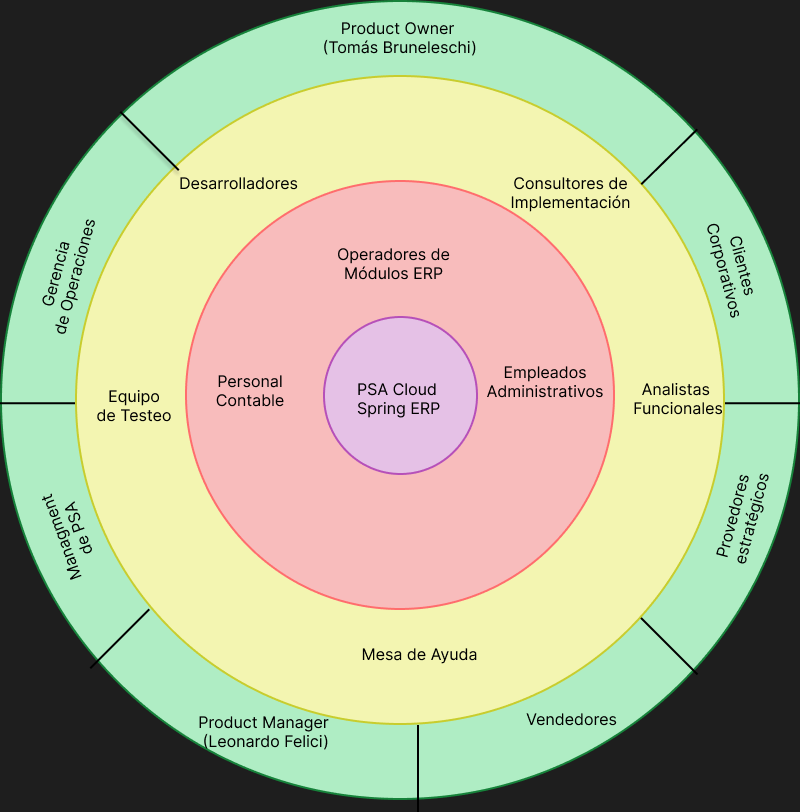
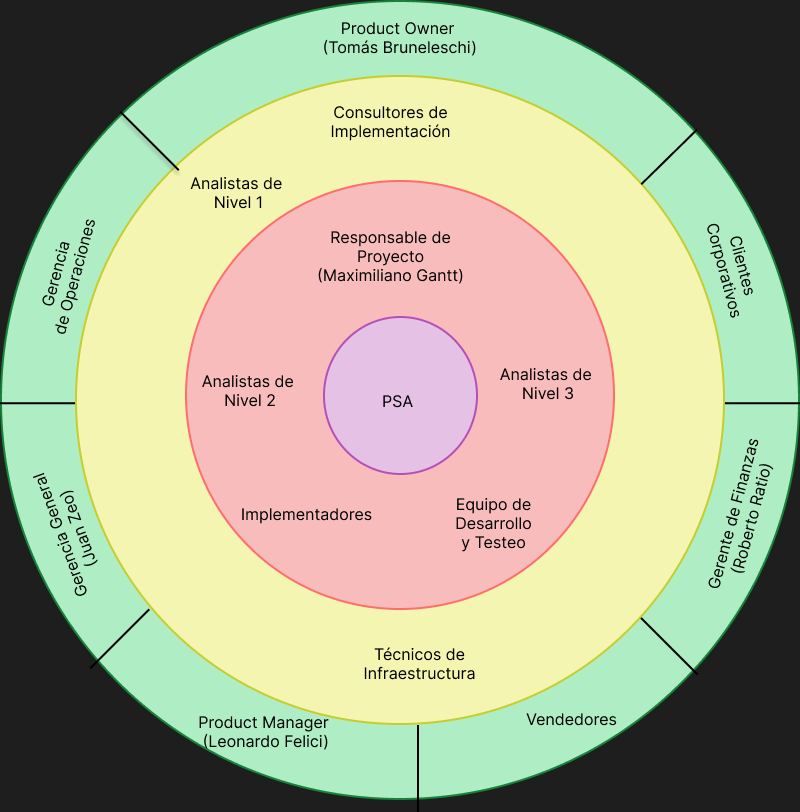
Actualizacion del ModelOnion para PSA. #6

diff --git a/docs/Dominio/onionModel.md b/docs/Dominio/onionModel.md
@@ -8,30 +8,30 @@ Este modelo identifica los stakeholders del sistema PSA Cloud Spring ERP.
 
 ### 🟣 Núcleo – El sistema
 
-- PSA Cloud Spring ERP
+- Sistema de Gestión PSA
 
 ---
 
 ### 🔴 Capa 1 – Usuarios del sistema
 
-Interactúan directamente con el sistema (usan la interfaz para tareas reales):
+Interactúan directamente con el sistema:
 
-- Empleados administrativos
-- Operadores de facturación
-- Personal de compras y contabilidad
+- Analistas de Nivel 2 (Soporte Especializado)
+- Analistas de Nivel 3 (Desarrollo / Funcional)
+- Implementadores
+- Responsable de Proyectos (Maximilian Gantt)
+- Equipo de Desarrollo y testeo
+- Consultores de Implementación
 
 ---
 
 ### 🟡 Capa 2 – Personal de soporte
 
-No son usuarios directos, pero configuran, mantienen o aseguran el funcionamiento del sistema:
+Supervisa y mantienen el sistema
 
-- Desarrolladores
-- Analistas funcionales
-- Testers
+- Analistas de Nivel 1 (Guian al cliente)
+- Consultores de Implementación (cuando parametrizan/configuran)
 - Técnicos de infraestructura
-- Mesa de ayuda
-- Consultores de implementación
 
 ---
 
@@ -42,33 +42,53 @@ No interactúan con el sistema directamente, pero son influenciados por él o lo
 - Product Owner (PO)
 - Program Manager (PM)
 - Gerencia de Operaciones
-- Management de PSA
-- Clientes corporativos
-- Proveedores estratégicos
+- Gerencia General (Juan Zeo)
+- Gerente de Finanzas (Roberto Ratio)
+- Clientes PSA
 - Vendedores
 
 ## ![Onion Model](<R1.2 Onion Model.png>)
 
 [figma.com/R1.2-OnionModel](https://www.figma.com/design/F0SGrgwunPUi7RblxnMZny/R1.2-Onion-Model?node-id=0-1&t=NHcL0pkH9tGpiTU9-1) .
 
-| Rol                               | Descripción                                                                               |
-| --------------------------------- | ----------------------------------------------------------------------------------------- |
-| **PSA Cloud Spring ERP**          | Sistema ERP desarrollado por PSA, actualmente migrado a la nube.                          |
-| **Vendedores**                    | Operan el módulo de ventas del ERP: presupuestos, pedidos, gestión de clientes.           |
-| **Empleados administrativos**     | Usan el ERP para tareas de gestión, carga de datos, emisión de comprobantes y reportes.   |
-| **Operadores de modulos ERP**     | Emiten y registran facturas, gestionan comprobantes y colaboran con contabilidad.         |
-| **Personal Contable**             | Planifican compras, gestionan facturas y realizan conciliación contable dentro del ERP.   |
-| **Consultores de implementación** | Parametrizan el ERP para cada cliente, participan del relevamiento y puesta en marcha.    |
-| **Mesa de ayuda**                 | Brindan soporte de primer nivel a usuarios; registran, escalan y resuelven incidencias.   |
-| **Testers**                       | Ejecutan pruebas funcionales para validar el comportamiento del sistema.                  |
-| **Analistas funcionales**         | Relevan requerimientos, modelan funciones, y validan entregables con usuarios y clientes. |
-| **Desarrolladores**               | Programan funcionalidades, corrigen errores y mantienen el código del ERP.                |
-| **Product Owner (PO)**            | Define el alcance funcional, prioriza tareas y representa la visión del producto.         |
-| **Program Manager (PM)**          | Gestiona proyectos a nivel de tribu, coordina tiempos, equipos y alineación estratégica.  |
-| **Gerencia de Operaciones**       | Supervisa arquitectura, productos y estrategia técnica de PSA.                            |
-| **Management de PSA**             | Nivel directivo encabezado por Juan Zeo; toma decisiones estratégicas.                    |
-| **Clientes corporativos**         | Empresas que adquieren el ERP; participan en definiciones funcionales y validaciones.     |
-| **Proveedores estratégicos**      | Brindan tecnologías o servicios integrados al ERP de PSA.                                 |
+### 🔴 **Capa 1 – Usuarios del sistema**
+
+| Rol                                                | Descripcion                                                                      |
+| -------------------------------------------------- | -------------------------------------------------------------------------------- |
+| **Analistas de Nivel 1 (Soporte / Mesa de Ayuda)** | Registran y clasifican incidentes en el sistema de soporte.                      |
+| **Analistas de Nivel 2 (Soporte Especializado)**   | Resuelven incidentes complejos con conocimiento técnico avanzado.                |
+| **Analistas de Nivel 3 (Desarrollo / Funcional)**  | Desarrolladores o analistas funcionales que intervienen en casos críticos.       |
+| **Implementadores**                                | Registran configuraciones y gestionan proyectos de implementación.               |
+| **Responsables de Proyectos (PM)**                 | Planifican y supervisan tareas, tiempos y riesgos en proyectos.                  |
+| **Equipo de Desarrollo y testeo**                  | Organizan y ejecutan tareas de desarrollo dentro del sistema y corrigen errores. |
+| **Consultores de Implementación (usuarios)**       | Operan el sistema durante la puesta en marcha en clientes.                       |
+
+---
+
+### 🟡 **Capa 2 – Personal de soporte**
+
+| Rol                                               | Descripcion                                                      |
+| ------------------------------------------------- | ---------------------------------------------------------------- |
+| **Consultores de Implementación (configuración)** | Parametrizan y adaptan el sistema a las necesidades del cliente. |
+| **Supervisores de Soporte**                       | Controlan calidad del servicio y tiempos de atención.            |
+| **Mesa de Ayuda (Soporte interno)**               | Brindan soporte técnico a usuarios internos del sistema.         |
+| **Técnicos de Infraestructura**                   | Mantienen la plataforma tecnológica que soporta el sistema.      |
+
+---
+
+### 🟢 **Capa 3 – Stakeholders indirectos**
+
+| Rol                                  | Descripcion                                                          |
+| ------------------------------------ | -------------------------------------------------------------------- |
+| **Product Owner (PO)**               | Define alcance funcional y prioriza el desarrollo del sistema.       |
+| **Program Manager (PM)**             | Supervisa la alineación estratégica de proyectos y equipos.          |
+| **Gerencia de Operaciones**          | Supervisa la estrategia técnica y operativa general de PSA.          |
+| **Gerencia General (Juan Zeo)**      | Toma decisiones estratégicas sobre el sistema y su evolución.        |
+| **Área de Finanzas (Roberto Ratio)** | Evalúa costos y control presupuestario de los proyectos gestionados. |
+| **Clientes de PSA**                  | Reciben soporte e implementaciones eficientes gracias al sistema.    |
+| **Vendedores**                       | Impactados indirectamente por la agilidad en soporte y proyectos.    |
+
+---
 
 ## 📎 Fuente
 
